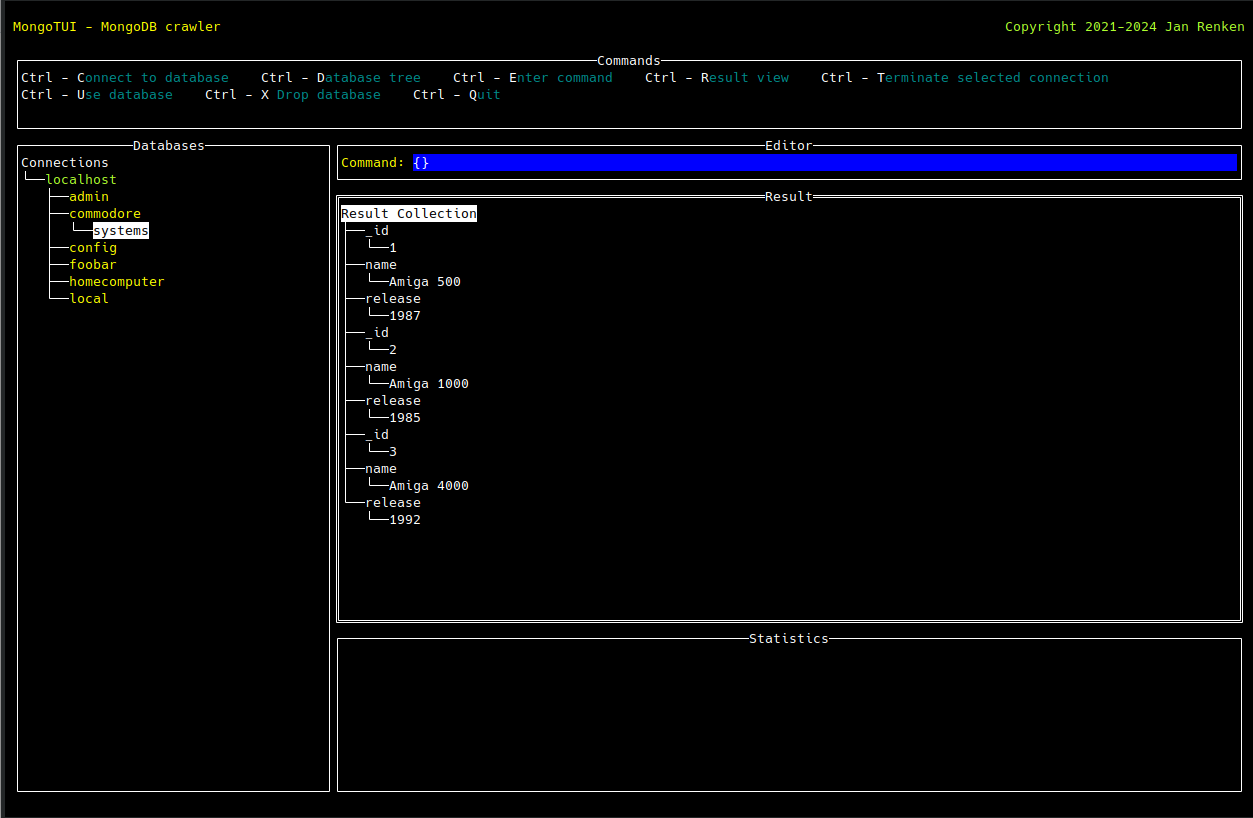
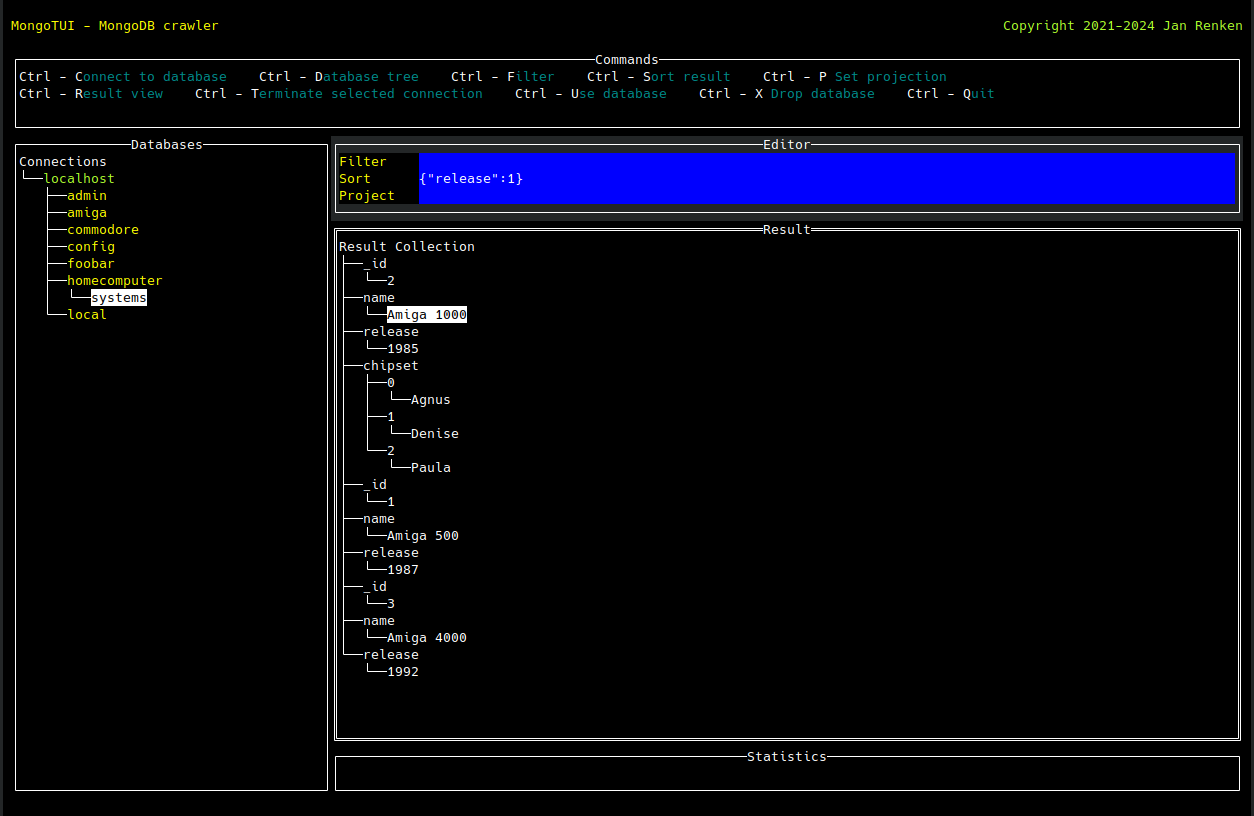
Enable sorting and projection

Changed region(s): [[0.0, 0.0, 1.0, 1.0], [0.5914, 0.9191, 0.6536, 0.9498]]

diff --git a/application/application.go b/application/application.go
@@ -34,7 +34,10 @@ var (
 	pages         *tview.Pages
 	databaseTree  *ui.DatabaseTreeWidget
 	resultView    *ui.ResultTreeWidget
-	editor        *tview.InputField
+	filterEditor  *tview.InputField
+	sortEditor    *tview.InputField
+	projectEditor *tview.InputField
+	editorView    *tview.Flex
 	commandsView  *tview.TextView
 	draw          func()
 	getConnection func() database.Connecter
@@ -51,12 +54,29 @@ func init() {
 	resultView = ui.CreateResultTreeWidget(app, pages)
 	resultView.SetBorder(true).SetTitle("Result")
 
-	editor = tview.NewInputField().
-		SetLabel("Command: ").
+	filterEditor = tview.NewInputField().
+		SetLabel("Filter ").
+		SetLabelWidth(10).
 		SetFieldWidth(200).
 		SetDoneFunc(handleEditorEvent)
-	editor.SetBorder(true).
-		SetTitle("Editor")
+
+	sortEditor = tview.NewInputField().
+		SetLabel("Sort ").
+		SetLabelWidth(10).
+		SetFieldWidth(200).
+		SetDoneFunc(handleEditorEvent)
+
+	projectEditor = tview.NewInputField().
+		SetLabel("Project ").
+		SetLabelWidth(10).
+		SetFieldWidth(200).
+		SetDoneFunc(handleEditorEvent)
+
+	editorView = tview.NewFlex().SetDirection(tview.FlexRow).
+		AddItem(filterEditor, 1, 1, false).
+		AddItem(sortEditor, 1, 1, false).
+		AddItem(projectEditor, 1, 1, false)
+	editorView.SetBorder(true).SetTitle("Editor")
 
 	commandsView = tview.NewTextView().
 		SetDynamicColors(true).
@@ -82,8 +102,18 @@ func init() {
 		resultView.HandleEvent(event)
 		dropDatabaseForm.HandleEvent(event)
 
-		if event.Key() == tcell.KeyCtrlE {
-			app.SetFocus(editor)
+		if event.Key() == tcell.KeyCtrlF {
+			app.SetFocus(filterEditor)
+			return event
+		}
+
+		if event.Key() == tcell.KeyCtrlS {
+			app.SetFocus(sortEditor)
+			return event
+		}
+
+		if event.Key() == tcell.KeyCtrlP {
+			app.SetFocus(projectEditor)
 			return event
 		}
 
@@ -121,9 +151,9 @@ func buildMainScreen() {
 		AddItem(tview.NewFlex().
 			AddItem(databaseTree, 40, 0, false).
 			AddItem(tview.NewFlex().SetDirection(tview.FlexRow).
-				AddItem(editor, 3, 1, false).
+				AddItem(editorView, 5, 1, false).
 				AddItem(resultView, 0, 1, false).
-				AddItem(tview.NewBox().SetBorder(true).SetTitle("Statistics"), 10, 1, false),
+				AddItem(tview.NewBox().SetBorder(true).SetTitle("Statistics"), 3, 1, false),
 				0, 1, false),
 			0, 1, false)
 

diff --git a/mongo/collection_test.go b/mongo/collection_test.go
@@ -25,8 +25,7 @@ func TestFind_ReturnsResult(t *testing.T) {
 	command = []byte(`{"insert": "systems", "documents": [
 			{"_id":1, "name":"Amiga 500", "release": 1987, "chipset": ["Agnus", "Denise", "Paula"]},
 			{"_id":2, "name":"Amiga 1000", "release": 1985},
-			{"_id":3, "name":"Amiga 4000", "release": 1992},
-			{"_id":4, "object": {"foo":"Bar"}}
+			{"_id":3, "name":"Amiga 4000", "release": 1992}
 		]}`)
 	_, err = Database.Execute(ctx, command)
 	assert.Nil(t, err)
@@ -58,4 +57,33 @@ func TestFind_WithoutCollection_ReturnsError(t *testing.T) {
 
 	assert.Nil(t, result)
 	assert.Equal(t, "No collection selected", err.Error())
+}
+
+func TestFind_WithOrder_ReturnsOrderedResult(t *testing.T) {
+	const connectionURI string = "mongodb://localhost"
+
+	ctx := context.Background()
+	connection := &models.Connection{URI: connectionURI}
+	ch := Connection.Connect(ctx, connection)
+	err := <-ch
+	assert.Nil(t, err)
+	Database.UseDatabase(connectionURI, "amiga")
+
+	command := []byte("{\"create\": \"ordered\"}")
+	Database.Execute(ctx, command)
+
+	command = []byte(`{"insert": "ordered", "documents": [
+			{"_id":1, "name":"Amiga 500", "release": 1987, "chipset": ["Agnus", "Denise", "Paula"]},
+			{"_id":2, "name":"Amiga 1000", "release": 1985},
+			{"_id":3, "name":"Amiga 4000", "release": 1992}
+		]}`)
+	_, err = Database.Execute(ctx, command)
+	assert.Nil(t, err)
+
+	Collection.SetCollection("ordered")
+
+	result, err := Collection.Find(ctx, []byte(`{}`), []byte(`{"release": 1}`), nil)
+	assert.Nil(t, err)
+
+	fmt.Printf("Result: %v", result)
 }

diff --git a/settings/command.go b/settings/command.go
@@ -28,7 +28,9 @@ type Command struct {
 var commands []Command = []Command{
 	{tcell.KeyCtrlC, "[white]Ctrl - C[darkcyan]onnect to database"},
 	{tcell.KeyCtrlD, "[white]Ctrl - D[darkcyan]atabase tree"},
-	{tcell.KeyCtrlE, "[white]Ctrl - E[darkcyan]nter command"},
+	{tcell.KeyCtrlF, "[white]Ctrl - F[darkcyan]ilter"},
+	{tcell.KeyCtrlS, "[white]Ctrl - S[darkcyan]ort result"},
+	{tcell.KeyCtrlP, "[white]Ctrl - P [darkcyan]Set projection"},
 	{tcell.KeyCtrlR, "[white]Ctrl - R[darkcyan]esult view"},
 	{tcell.KeyCtrlT, "[white]Ctrl - T[darkcyan]erminate selected connection"},
 	{tcell.KeyCtrlU, "[white]Ctrl - U[darkcyan]se database"},

diff --git a/application/event.go b/application/event.go
@@ -28,7 +28,8 @@ import (
 func handleEditorEvent(key tcell.Key) {
 	ctx := context.Background()
 	// result, err := Database.Execute(ctx, []byte(editor.GetText()))
-	result, err := Collection.Find(ctx, []byte(editor.GetText()), nil, nil)
+	result, err := Collection.Find(ctx, []byte(filterEditor.GetText()), []byte(sortEditor.GetText()), []byte(projectEditor.GetText()))
+	//result, err := Collection.Find(ctx, []byte(filterEditor.GetText()), nil, nil)
 	if err != nil {
 		ui.CreateMessageModalWidget(app, pages, ui.TypeError, err.Error())
 		return

diff --git a/mongo/collection.go b/mongo/collection.go
@@ -29,6 +29,14 @@ func (collection *collection) Find(ctx context.Context, filter []byte, sort []by
 		filter = []byte(`{}`)
 	}
 
+	if sort == nil || len(sort) == 0 {
+		sort = []byte(`{}`)
+	}
+
+	if project == nil || len(project) == 0 {
+		project = []byte(`{}`)
+	}
+
 	ctx, cancel := context.WithTimeout(ctx, 10*time.Second)
 	defer cancel()
 
